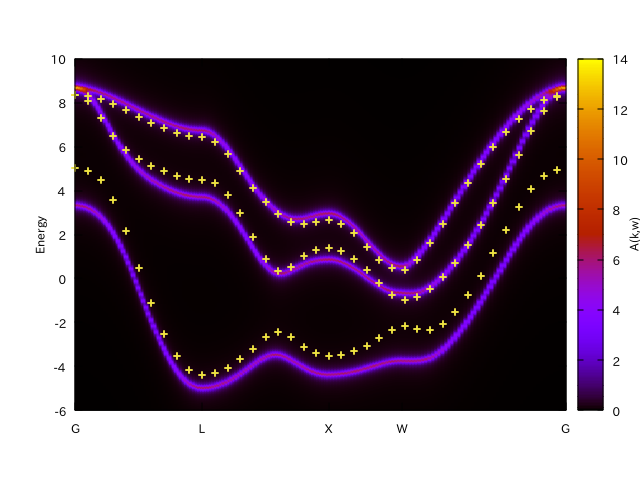
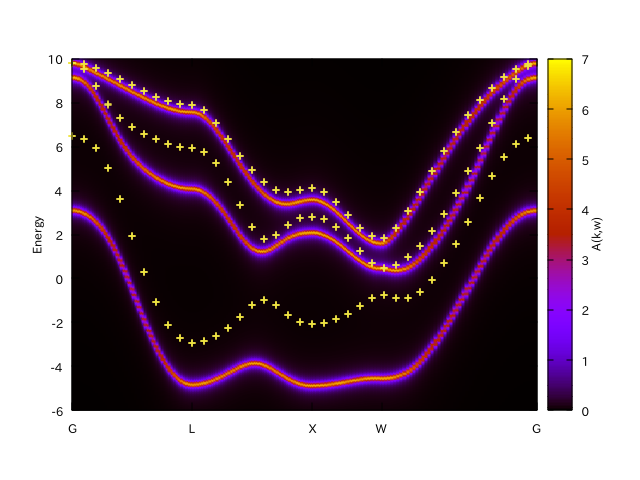
#37 Update manual

diff --git a/doc/tutorial/respack.rst b/doc/tutorial/respack.rst
@@ -1,7 +1,7 @@
 .. _respacksrvo3:
 
-RESPACK (SrVO\ :sub:`3`)
-========================
+Downfolding with RESPACK (SrVO\ :sub:`3`)
+=========================================
 
 .. todo::
 
@@ -90,36 +90,64 @@ First, we compute the band structure with the following input file:
 
 .. code-block:: gnuplot
 
-   plot [][11:18] "bands.out.gnu" u 1:2 w p tit "Orig", 12.3116 tit "E_F", "srvo3_band.dat" u ($1*0.6146):2 tit "Wannier" w l
+   plot [][11:18] "bands.out.gnu" u 1:2 w p tit "Orig", 12.3116 tit "E_F", "dir-wan/dat.iband" u ($1*2.5731):2 tit "Wannier" w l
 
 .. image:: qe/band_srvo3.png
    :width: 500
    :align: center
 
+Dielectric matrix and Effective interaction
+-------------------------------------------           
+
+Next, we move on the calculation of the dielectric matrix with cRPA.
+We use the program ``calc_chiqw`` (in ``src/calc_chiqw`` in RESPACK) as
+
+.. code-block:: bash
+                
+   $ mpiexec calc_chiqw < respack.in
+
+where the input file is the same as above.
+
+After we compute the dielectric matrix, we calculate the effective interaction :math:`U` and :math:`J` as   
+
+.. code-block:: bash
+                
+   $ calc_w3d < respack.in
+   $ calc_j3d < respack.in
+
+The output of these program should be transformed into the wannier90 format by using the utility program
+``respack2wan90.py`` in ``bin/`` directory of triqs.   
+
+.. code-block:: bash
+                
+   $ respack2wan90.py srvo3
+
+The command-line argument (``"srvo3"`` in this case) must be the same as ``seedname`` in the DCore input.
+   
 DMFT calculation
 ----------------   
    
-:download:`srvo3.ini <qe/srvo3.ini>`
+:download:`srvo3.ini <respack/srvo3_respack.ini>`
 
-.. literalinclude:: qe/srvo3.ini
+.. literalinclude:: respack/srvo3_respack.ini
                               
 DMFT setup: dcore_pre
 ~~~~~~~~~~~~~~~~~~~~~~
 
 .. code-block :: bash
 
-   $ dcore_pre srvo3.ini
+   $ dcore_pre srvo3_respack.ini
 
 Running self-consistent DFT+DMFT : dcore
 ~~~~~~~~~~~~~~~~~~~~~~~~~~~~~~~~~~~~~~~~~
 
 .. code-block :: bash
 
-   $ dcore srvo3.ini
+   $ dcore srvo3_respack.ini
 
 Post-processing and data analysis: dcore_post
 ~~~~~~~~~~~~~~~~~~~~~~~~~~~~~~~~~~~~~~~~~~~~~~
 
 .. code-block :: bash
 
-   $ dcore_post srvo3.ini
+   $ dcore_post srvo3_respack.ini
